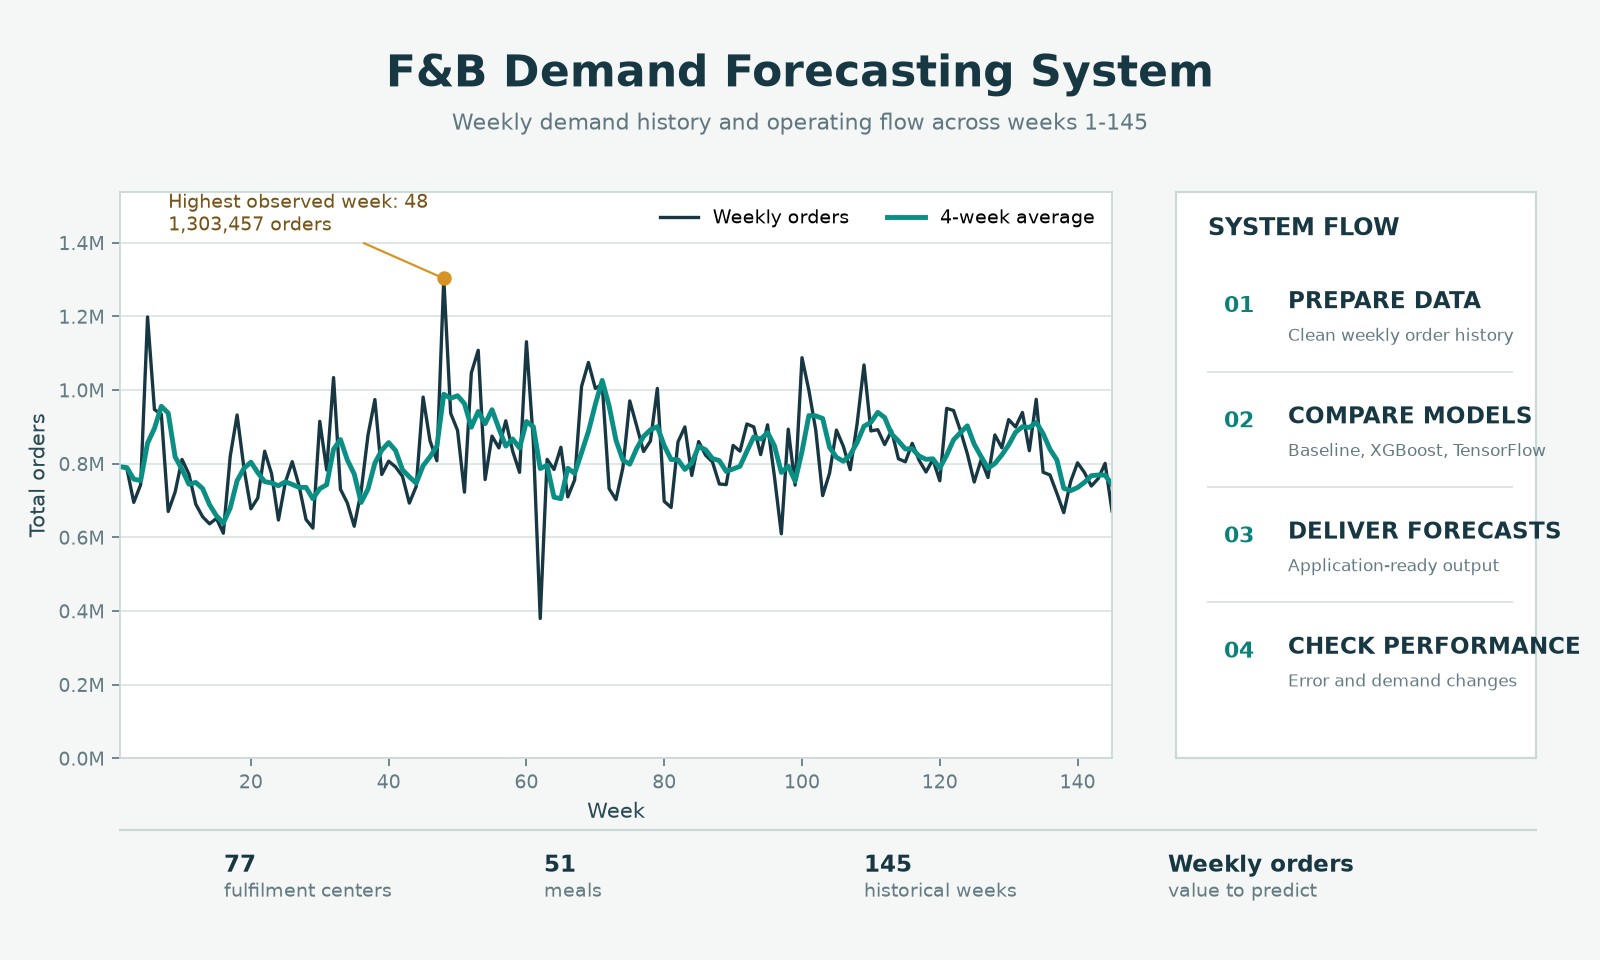
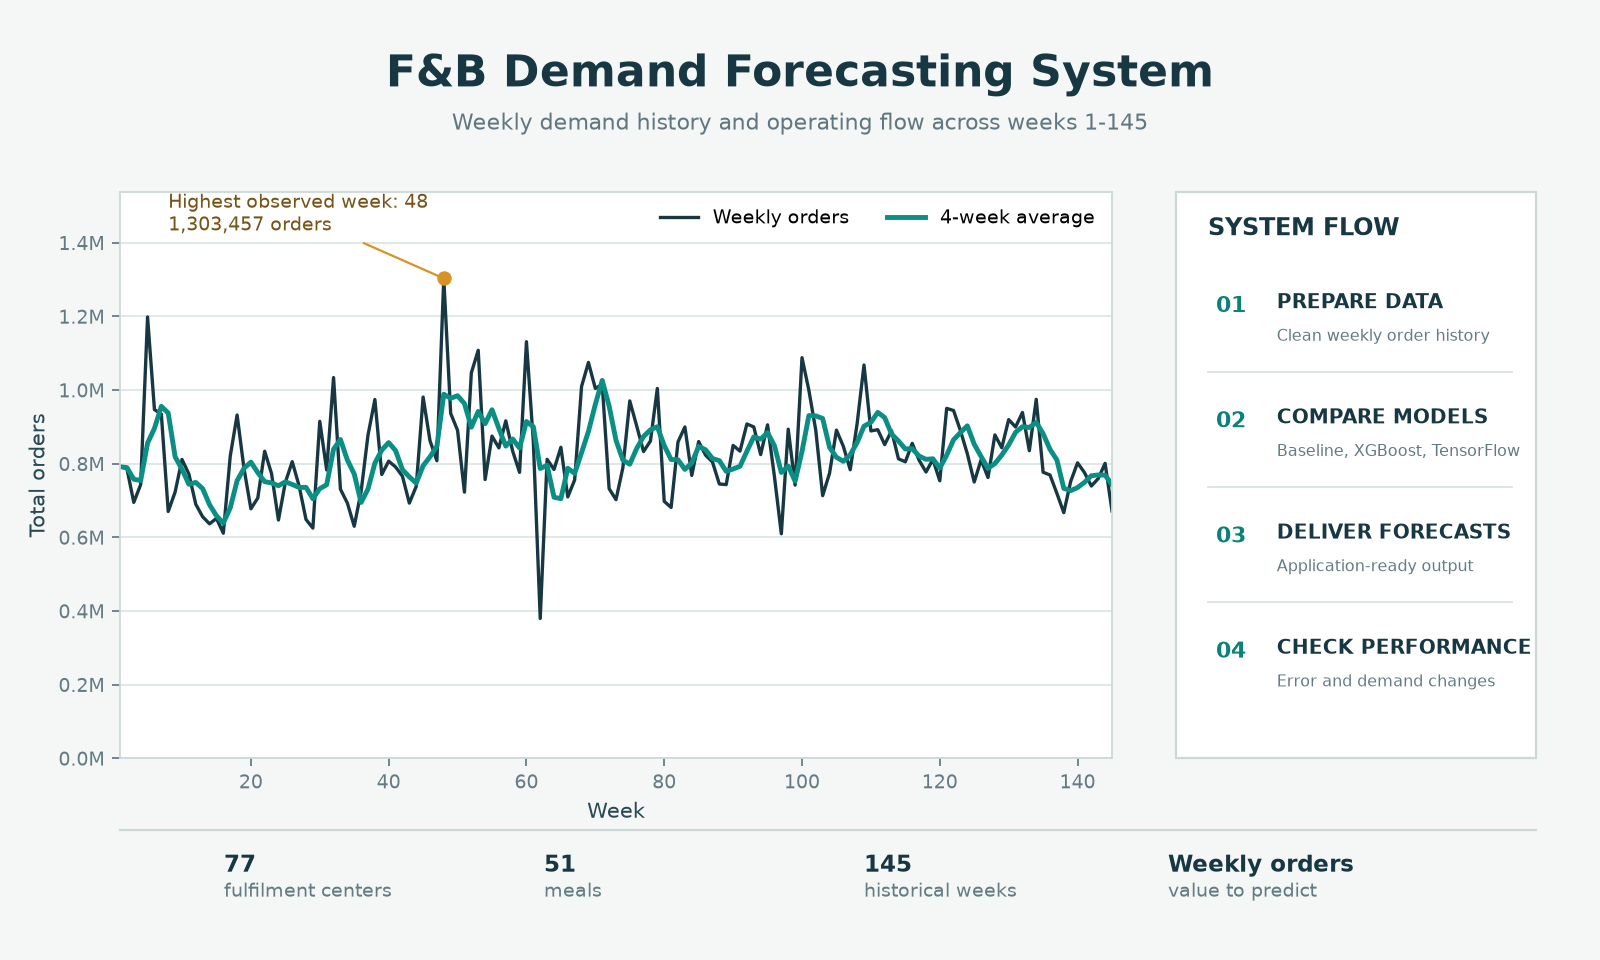
Fix portfolio diagram text alignment

diff --git a/index.html b/index.html
@@ -199,8 +199,8 @@
               </div>
               <div class="project-result-column">
                 <figure class="project-visual">
-                  <a class="project-image-link" href="assets/projects/ai-invoice-automation.png?v=20260805f" target="_blank" rel="noopener noreferrer" aria-label="Open the AI invoice automation operating flow at full size">
-                    <img src="assets/projects/ai-invoice-automation.png?v=20260805f" alt="AI invoice automation flow showing invoice batch intake, three coordinated n8n workflows, Gemini extraction, Python validation, human control, accounting delivery, and PostgreSQL evidence" width="1600" height="960" decoding="async">
+                  <a class="project-image-link" href="assets/projects/ai-invoice-automation.png?v=20260805g" target="_blank" rel="noopener noreferrer" aria-label="Open the AI invoice automation operating flow at full size">
+                    <img src="assets/projects/ai-invoice-automation.png?v=20260805g" alt="AI invoice automation flow showing batch intake, automated checks, human review, accounting delivery, and a structured record of status, decisions, and duplicate protection" width="1600" height="960" decoding="async">
                   </a>
                   <figcaption>One project is split into three n8n workflows so intake, human review, and accounting delivery can start independently and be retried safely.</figcaption>
                 </figure>
@@ -232,8 +232,8 @@
               </div>
               <div class="project-result-column">
                 <figure class="project-visual">
-                  <a class="project-image-link" href="assets/projects/fnb-demand-data-profile.png?v=20260805d" target="_blank" rel="noopener noreferrer" aria-label="Open the F and B demand history and system flow at full size">
-                    <img src="assets/projects/fnb-demand-data-profile.png?v=20260805d" alt="Weekly food demand and four-week average beside a concise data, modeling, forecast delivery, and performance-monitoring flow" width="1600" height="960" loading="lazy" decoding="async">
+                  <a class="project-image-link" href="assets/projects/fnb-demand-data-profile.png?v=20260805e" target="_blank" rel="noopener noreferrer" aria-label="Open the F and B demand history and system flow at full size">
+                    <img src="assets/projects/fnb-demand-data-profile.png?v=20260805e" alt="Weekly food demand and four-week average beside a concise data, modeling, forecast delivery, and performance-monitoring flow" width="1600" height="960" loading="lazy" decoding="async">
                   </a>
                   <figcaption>Weekly totals and the four-week average come directly from the selected dataset, while the adjacent flow summarizes how demand forecasts move from data preparation to ongoing performance checks.</figcaption>
                 </figure>
